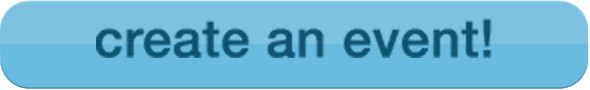
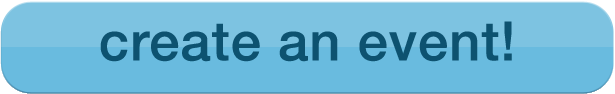
Updating retina assets

diff --git a/do-we-have-enough/iphone/trunk/Do We Have Enough/Classes/ValidateEmailViewController.m b/do-we-have-enough/iphone/trunk/Do We Have Enough/Classes/ValidateEmailViewController.m
@@ -64,6 +64,11 @@
 	// Release any retained subviews of the main view.
 	// e.g. self.myOutlet = nil;
 }
+
+- (void)viewDidDisappear:(BOOL)animated {
+    [self.parentViewController performSelector:@selector(checkValidation) withObject:nil afterDelay:5.0];
+}
+
 - (void)viewDidLoad {
     [super viewDidLoad];
 }

diff --git a/do-we-have-enough/iphone/trunk/Do We Have Enough/Classes/ValidateEmailCreateViewController.m b/do-we-have-enough/iphone/trunk/Do We Have Enough/Classes/ValidateEmailCreateViewController.m
@@ -94,6 +94,9 @@
 	// e.g. self.myOutlet = nil;
 }
 
+- (void)viewDidDisappear:(BOOL)animated {
+    [self.parentViewController performSelector:@selector(checkValidation) withObject:nil afterDelay:5.0];
+}
 
 - (void)dealloc {
 	[emailAddress release];
